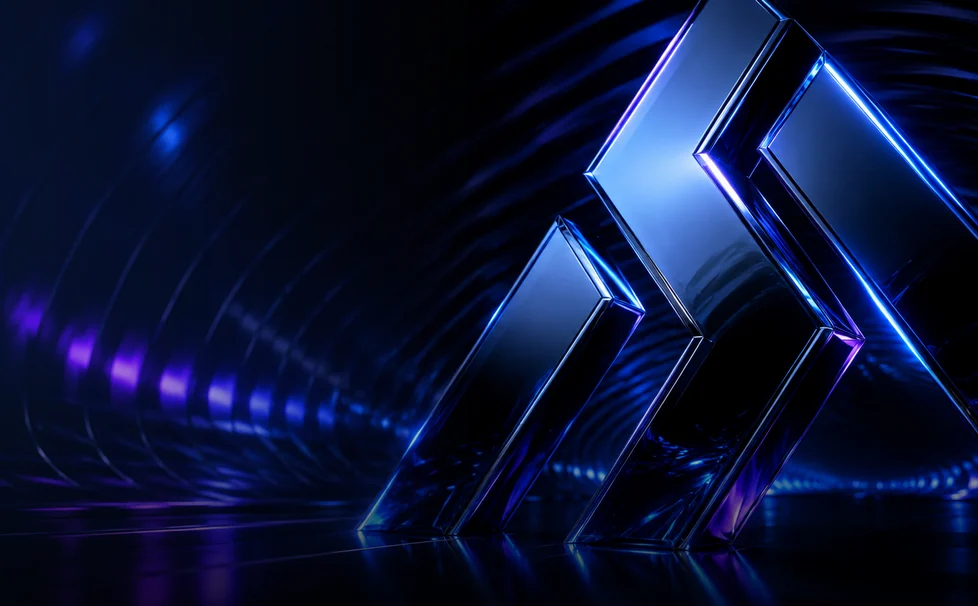
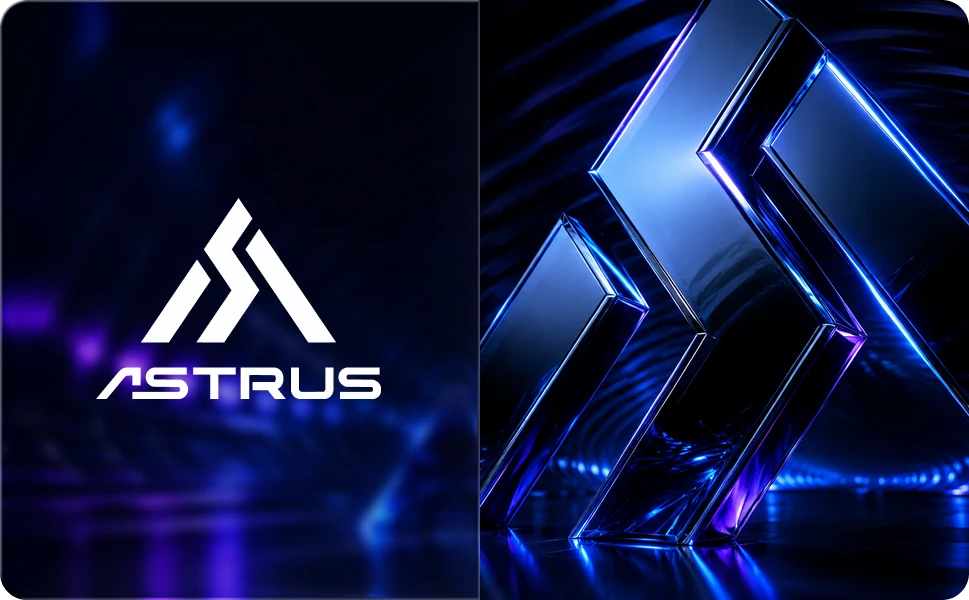
Usa artes finais 3x do Otávio (cards + hero novo)

diff --git a/index.html b/index.html
@@ -88,7 +88,7 @@
     background:conic-gradient(from 0deg,transparent 0deg,transparent 358.6deg,rgba(255,180,150,.95) 360deg);}
 
   /* foto central — moldura HUD retangular */
-  .core{position:absolute;top:60%;left:50%;width:96%;aspect-ratio:966/1109;transform:translate(-50%,-50%);}
+  .core{position:absolute;top:60%;left:50%;width:96%;aspect-ratio:928/906;transform:translate(-50%,-50%);}
   .core__frame{position:relative;width:100%;height:100%;}
   .core__frame img{width:100%;height:100%;object-fit:contain;object-position:50% 50%;filter:drop-shadow(0 14px 30px rgba(0,0,0,.55));
     -webkit-mask:linear-gradient(180deg,#000 0%,#000 60%,transparent 96%);mask:linear-gradient(180deg,#000 0%,#000 60%,transparent 96%);}
